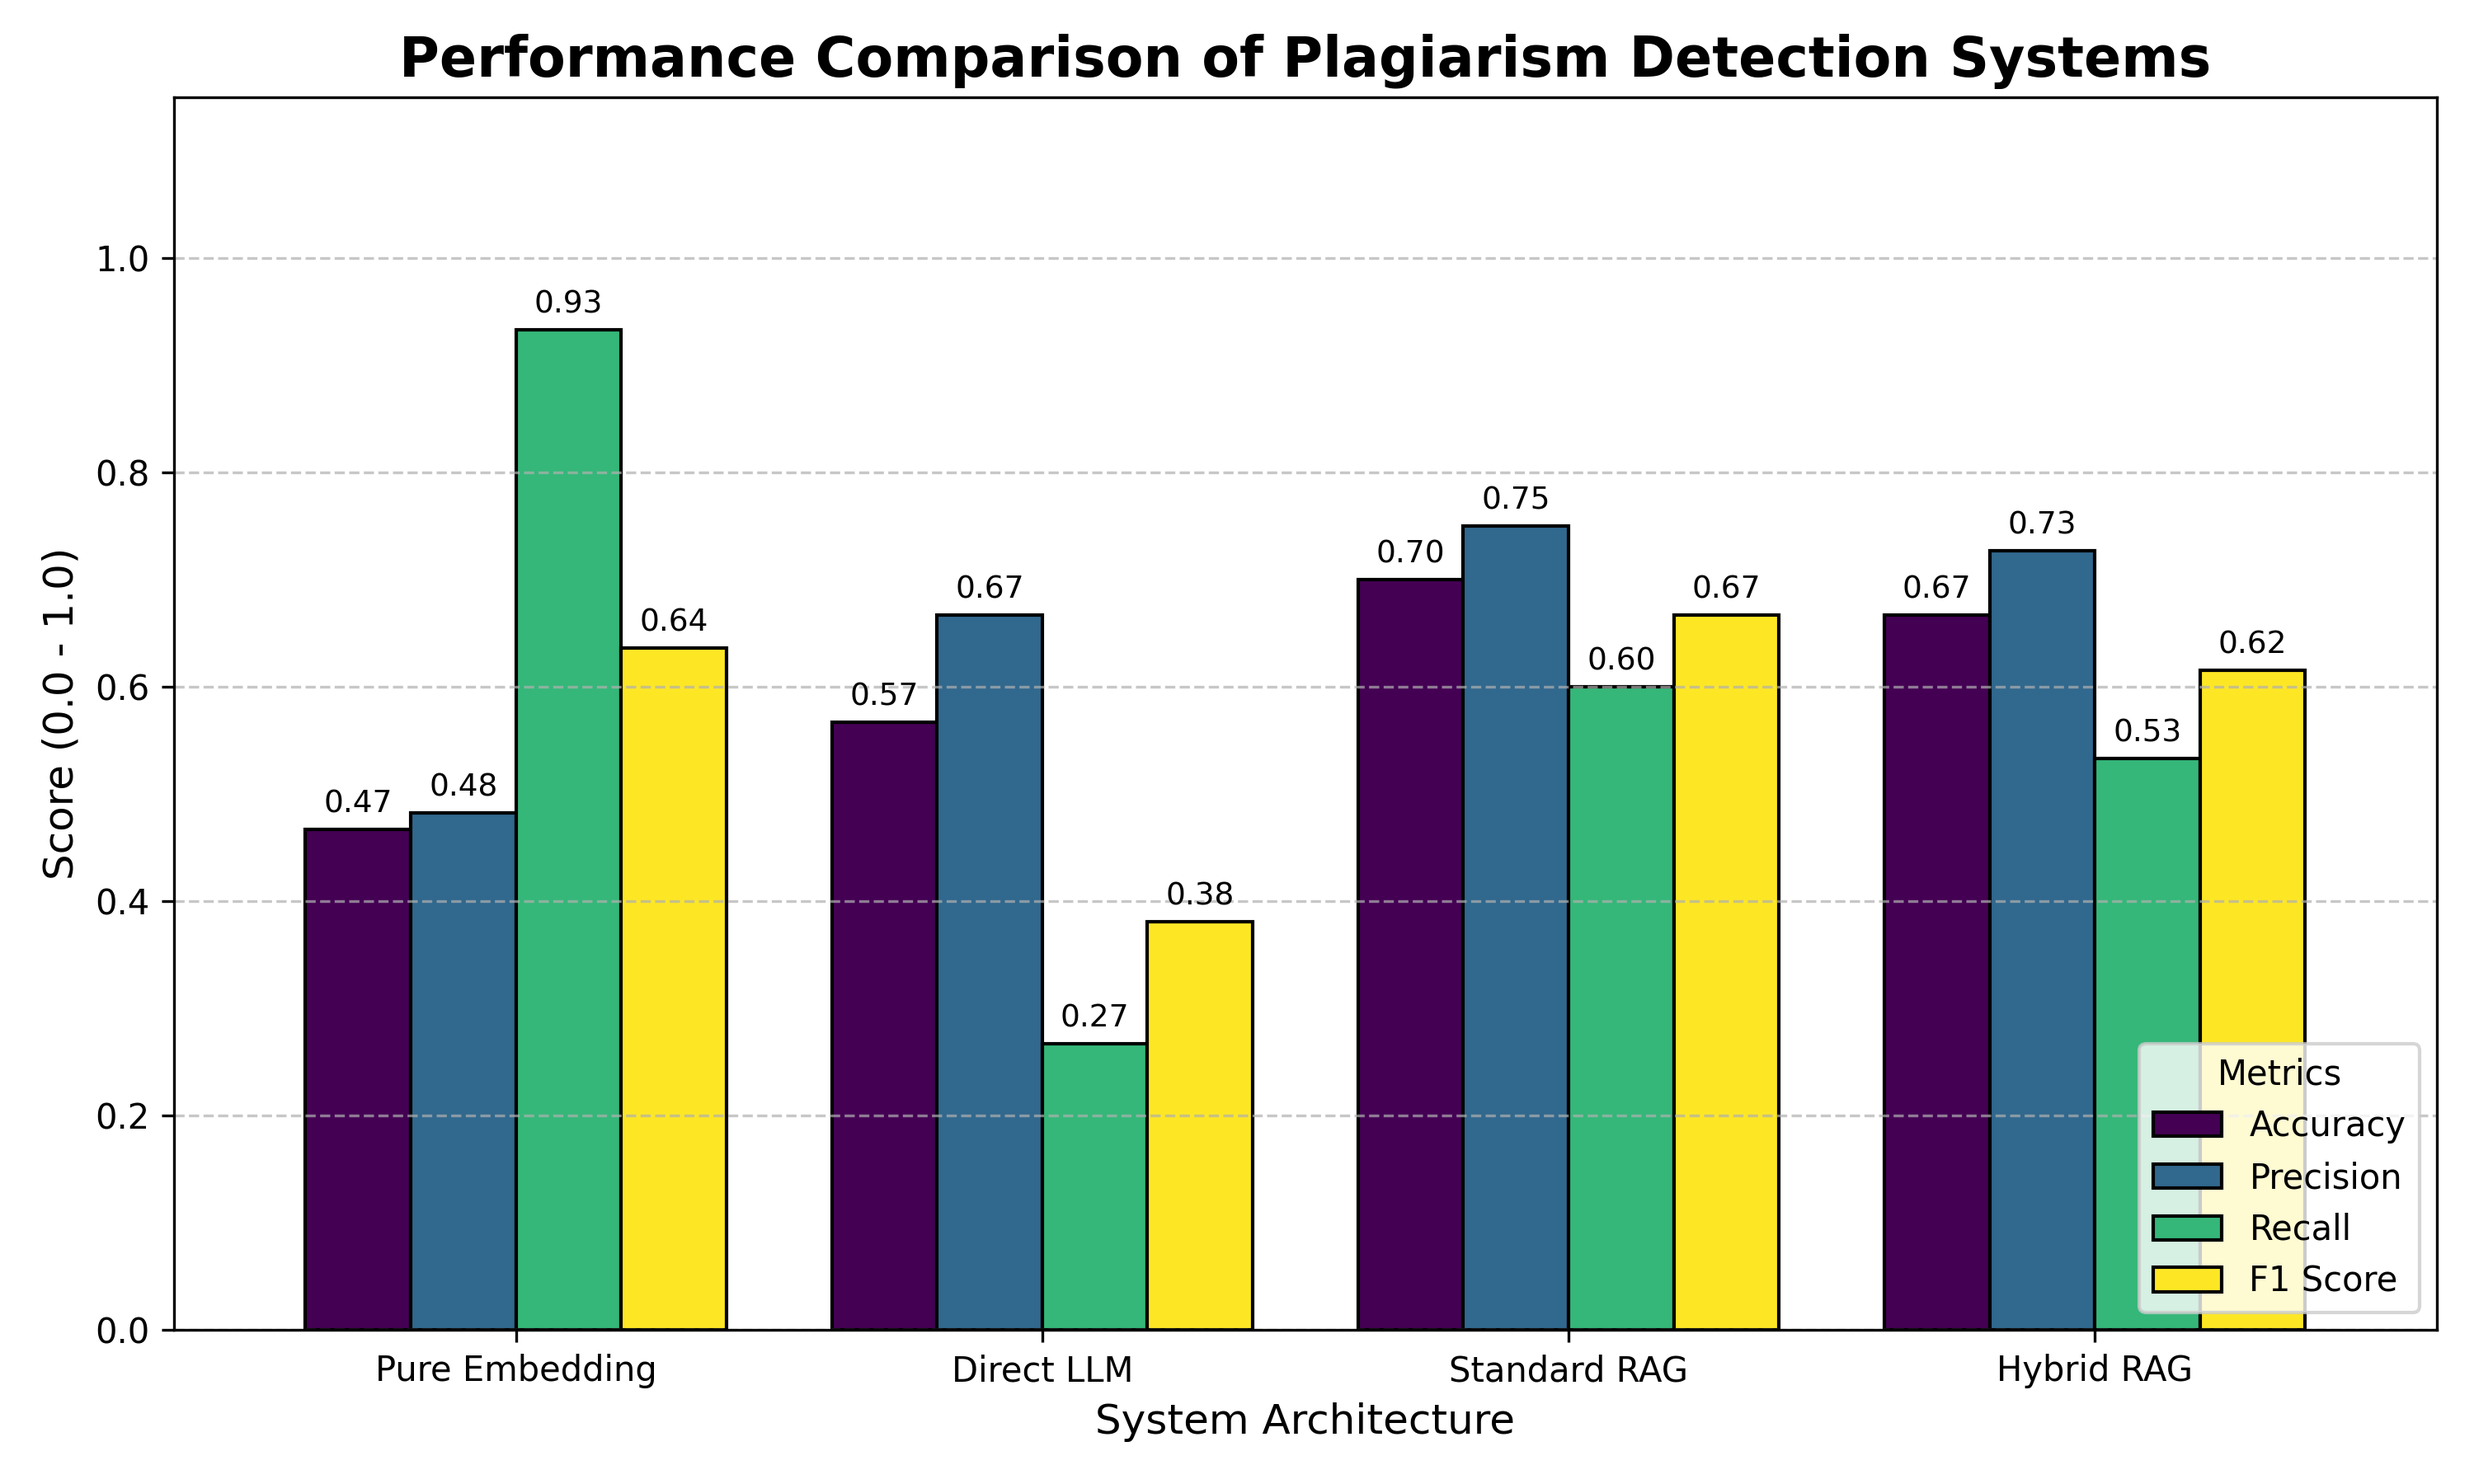
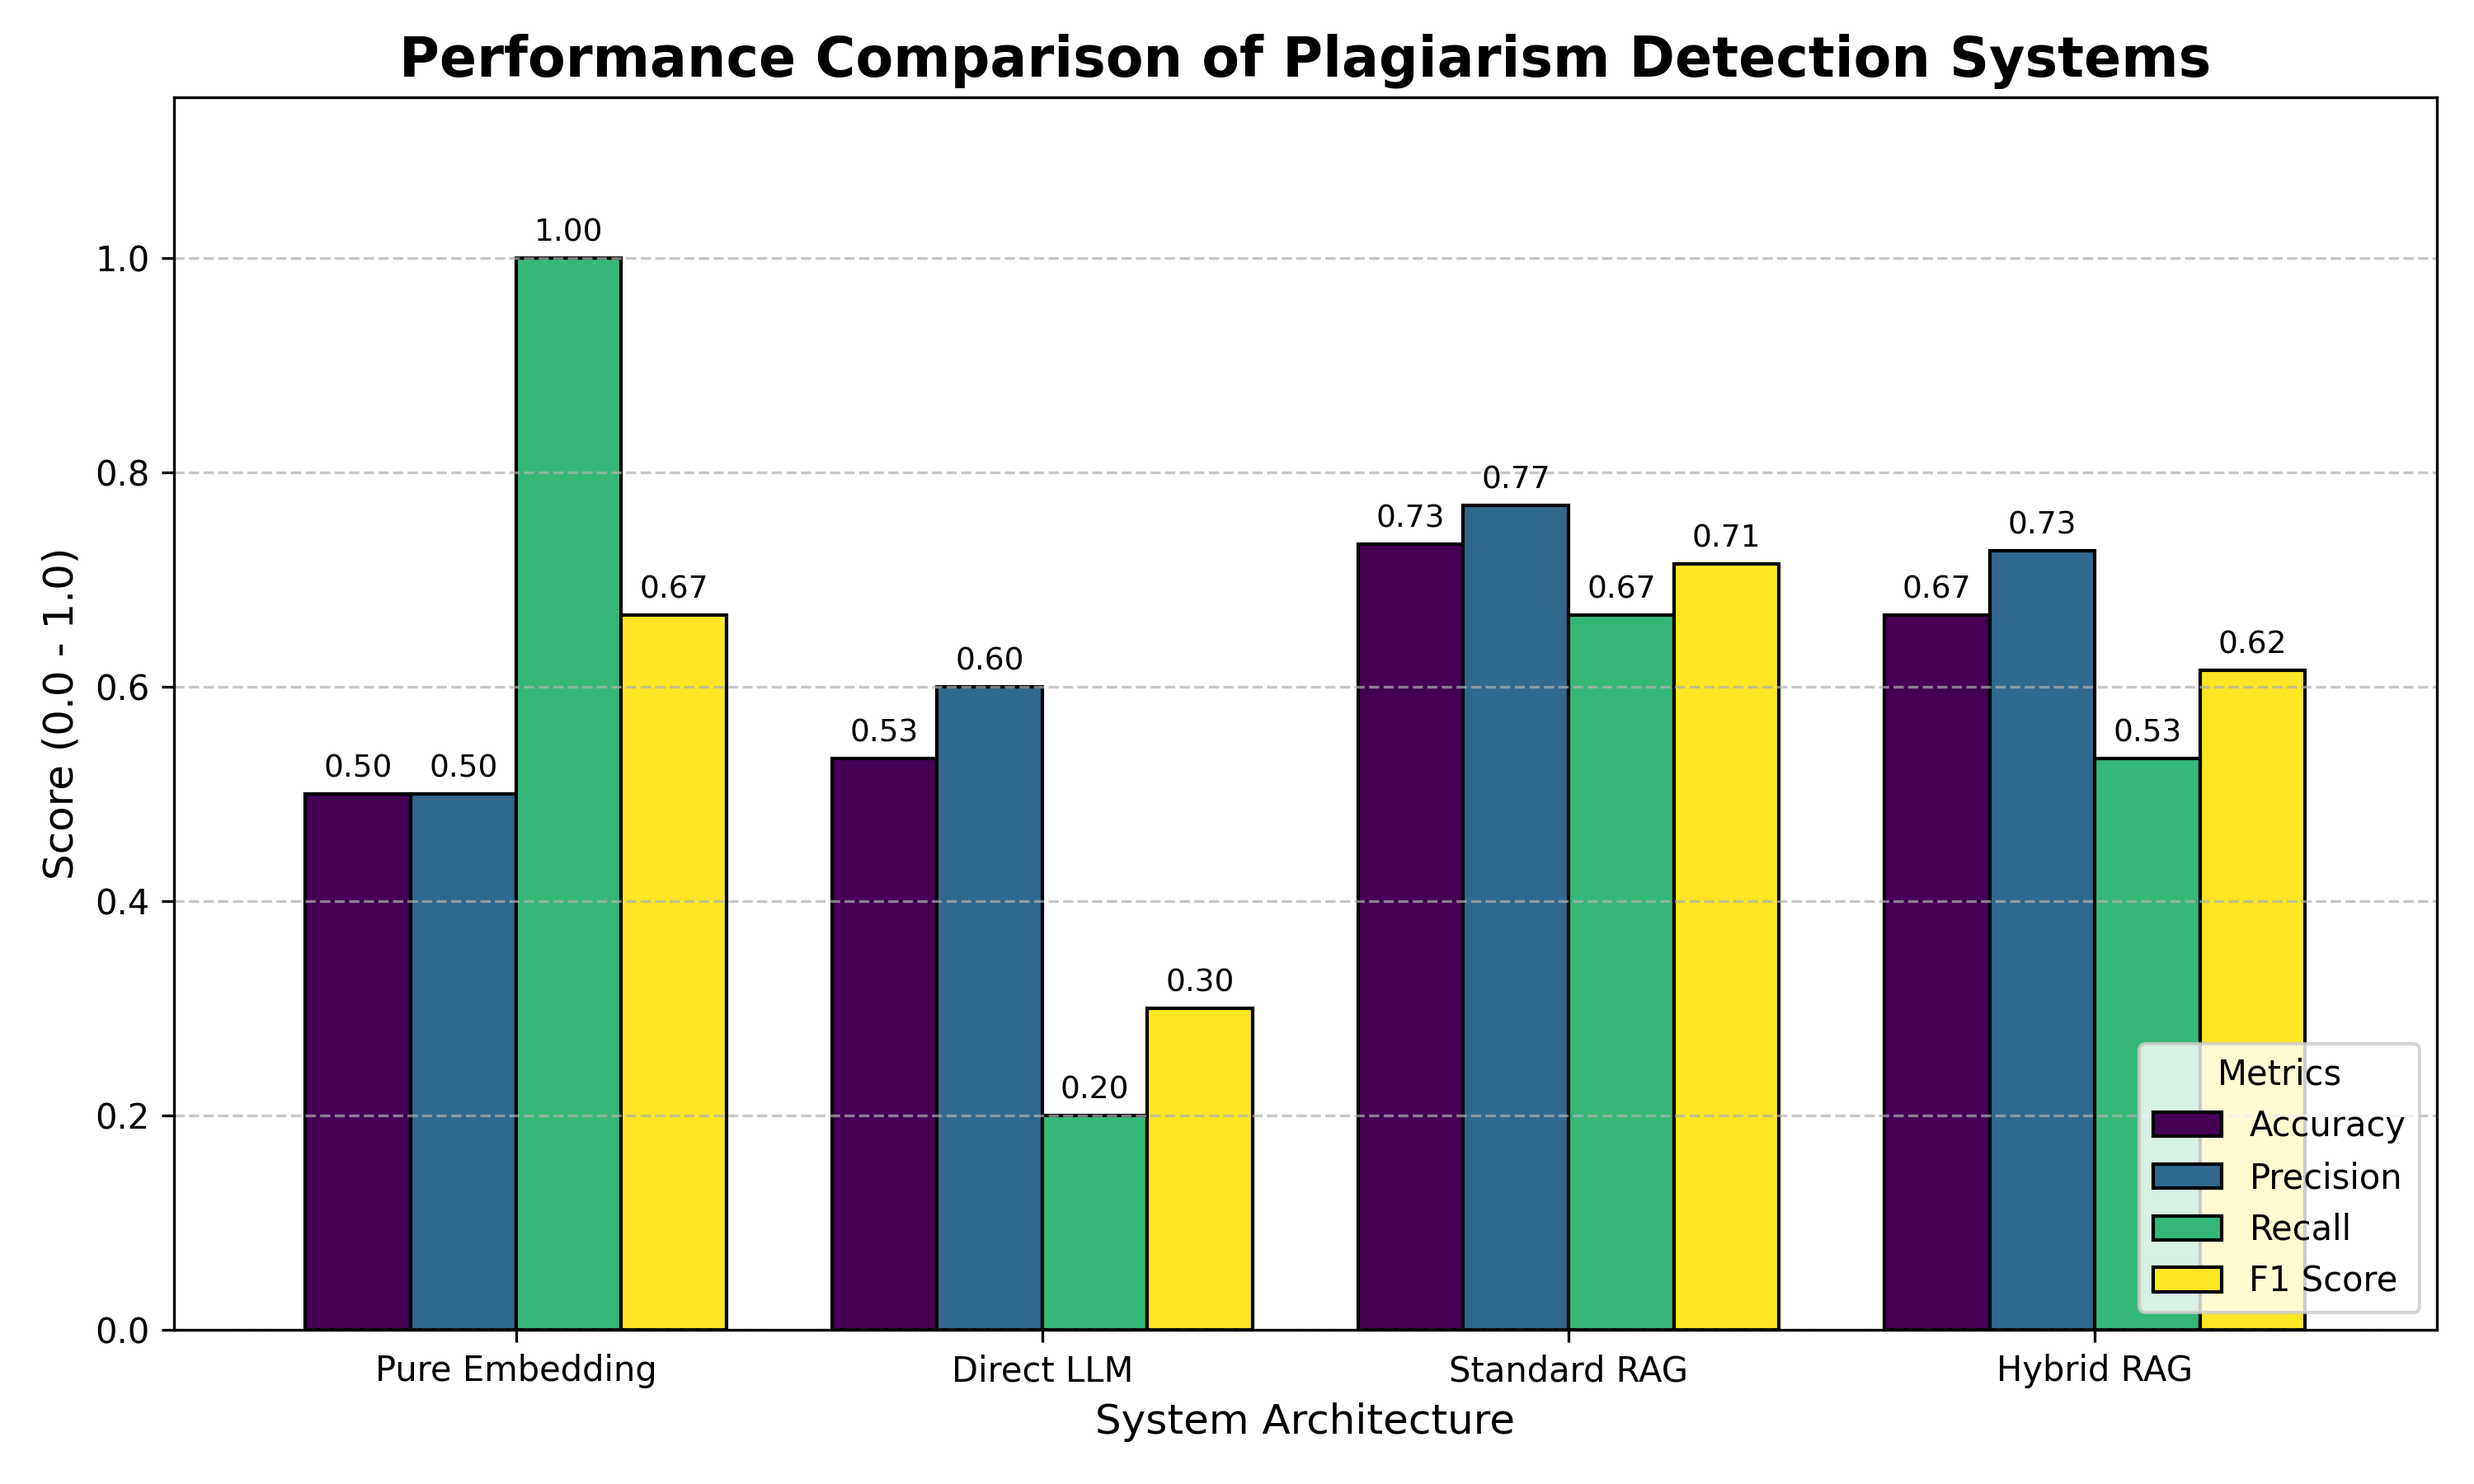
finalized

diff --git a/README.md b/README.md
@@ -1,0 +1,64 @@
+# Plagiarism Detection System
+
+This project implements a multi-stage plagiarism detection system for Python code, utilizing varying levels of complexity from simple embedding similarity to Hybrid RAG (Retrieval-Augmented Generation).
+
+## Dataset
+
+The reference corpus consists of **38 Python files**, sourced from LeetCode solution repositories.
+- **Content:** Each file typically contains **1-3 functions** solving a specific algorithmic problem (e.g., Two Sum, Merge Intervals).
+- **Structure:** Files are concise, with most being under **60 lines of code**.
+- **Chunking Strategy:**
+  - We use **AST-based chunking** (Abstract Syntax Tree) to specifically extract `FunctionDef` nodes.
+  - **Why?** Plagiarism in coding assignments usually happens at the function level. Chunking by lines or tokens risks splitting a function in half, losing the semantic context required for accurate detection. By parsing the AST, we ensure every chunk is a complete, syntactically valid function.
+
+## Methods
+
+We evaluated four different approaches to detect plagiarized code:
+
+### 1. Pure Embedding
+- **Mechanism:** Encodes the student's code and reference functions into dense vectors using `all-MiniLM-L6-v2`. It calculates cosine similarity using FAISS.
+- **Verdict:** If the maximum similarity score exceeds a threshold (0.42), it is flagged as plagiarism.
+- **Pros:** extremely fast and cheap.
+- **Cons:** Can be tricked by simple renames if the embedding model isn't robust to syntactic variations; lacks deep logical reasoning.
+
+### 2. Direct LLM (Context Stuffing)
+- **Mechanism:** Feeds the **entire** reference corpus and the student code into the LLM prompt.
+- **Verdict:** The LLM directly compares the logic and outputs a verdict.
+- **Pros:** Theoretically has access to "perfect information."
+- **Cons:** severe scalability issues. As the corpus grows, the context window fills up, costs skyrocket, and the "needle in a haystack" problem degrades performance.
+
+### 3. Standard RAG
+- **Mechanism:** Retrieves the top-k (k=5) most similar chunks using Dense Embeddings (FAISS) and feeds *only* those chunks to the LLM.
+- **Verdict:** The LLM analyzes the reduced context to make a decision.
+- **Pros:** Scalable and cost-effective. It focuses the LLM's attention on the most relevant potential matches.
+
+### 4. Hybrid RAG
+- **Mechanism:** Combines **Dense Retrieval** (FAISS) with **Sparse Retrieval** (BM25) using Reciprocal Rank Fusion (RRF).
+- **Why?** BM25 is excellent at exact keyword matching (e.g., specific rare variable names or unique function calls), while Embeddings capture semantic intent.
+- **Verdict:** The top-k fused results are sent to the LLM for analysis.
+
+## Results
+
+![System Comparison](system_comparison_graph.png)
+
+
+### Analysis
+
+1.  **Pure Embedding (High Recall, Low Precision):**
+    - This method flagged almost everything as plagiarism (Recall 0.93), resulting in many false positives (Precision 0.48).
+    - **Reason:** Code often looks "similar" in vector space because of shared keywords (e.g., `def`, `return`, `for`, `int`) and common structures, even if the logic is different. The threshold of 0.4 is perfect for recallign 100% but we have only 0.5 for pure embeddings.
+
+2.  **Direct LLM ("Needle in a Haystack"):**
+    - Despite having all data, it performed poorly on Recall.
+    - **Reason:** This confirms the "Needle in a hay stack" phenomenon. When an LLM is given a massive context (all 38 files), it struggles to pay attention to the specific relevant section, often Hallucinating or defaulting to "Original" when overwhelmed.
+
+3.  **Standard RAG (Best Performer):**
+    - Achieved the best balance.
+    - **Reason:** By filtering the noise and providing only the top 5 relevant chunks, we allowed the LLM to focus entirely on comparing the specific logic. This proves that **less is often more** when it comes to context quality.
+
+4.  **Hybrid RAG (Performance Degradation):**
+    - Surprisingly, Hybrid RAG performed worse than Standard RAG.
+    - **Reason:**
+        - **BM25 Noise:** In code, variable names are often generic (`i`, `data`, `result`). BM25 might have prioritized chunks with matching generic identifiers over chunks with semantically similar logic.
+        - **RRF Tuning:** The fusion parameters (weights or `k` constant) might not have been optimal, causing the "better" semantic matches from FAISS to be pushed out of the top-k context by irrelevant keyword matches.
+
